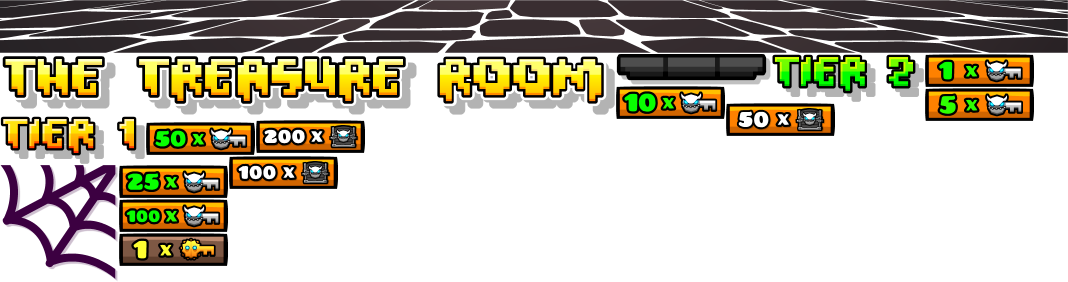
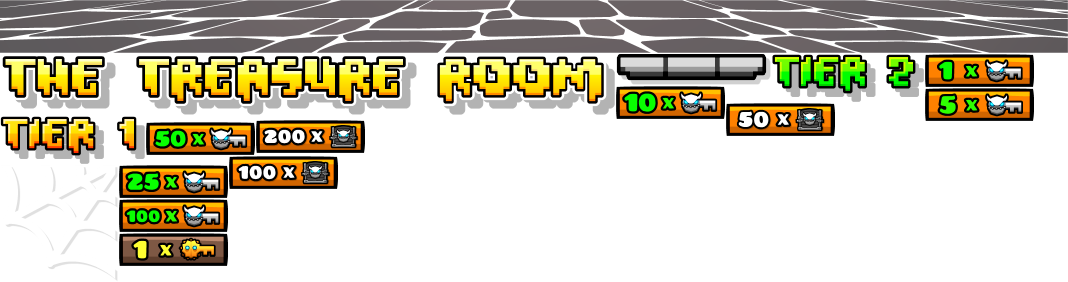
usable audio and treasuresheet fixed

Changed region(s): [[0.0, 0.0, 1.0, 0.2837], [0.0, 0.5674, 0.1236, 0.9929]]

diff --git a/assets/scripts/core/loading-screen.js b/assets/scripts/core/loading-screen.js
@@ -318,6 +318,11 @@ class BootScene extends Phaser.Scene {
       this.load.audio("playSound_01", "assets/sfx/playSound_01.ogg");
       this.load.audio("quitSound_01", "assets/sfx/quitSound_01.ogg");
       this.load.audio("highscoreGet02", "assets/sfx/highscoreGet02.ogg");
+      this.load.audio("chestClick", "assets/sfx/chestClick.ogg");
+      this.load.audio("chestLand", "assets/sfx/chestLand.ogg");
+      this.load.audio("chestOpen01", "assets/sfx/chestOpen01.ogg");
+      this.load.audio("reward01", "assets/sfx/reward01.ogg");
+      this.load.audio("secretKey", "assets/sfx/secretKey.ogg");
 
       this.load.on("progress", (value) => {
         if (sliderFill) sliderFill.width = value * 380;